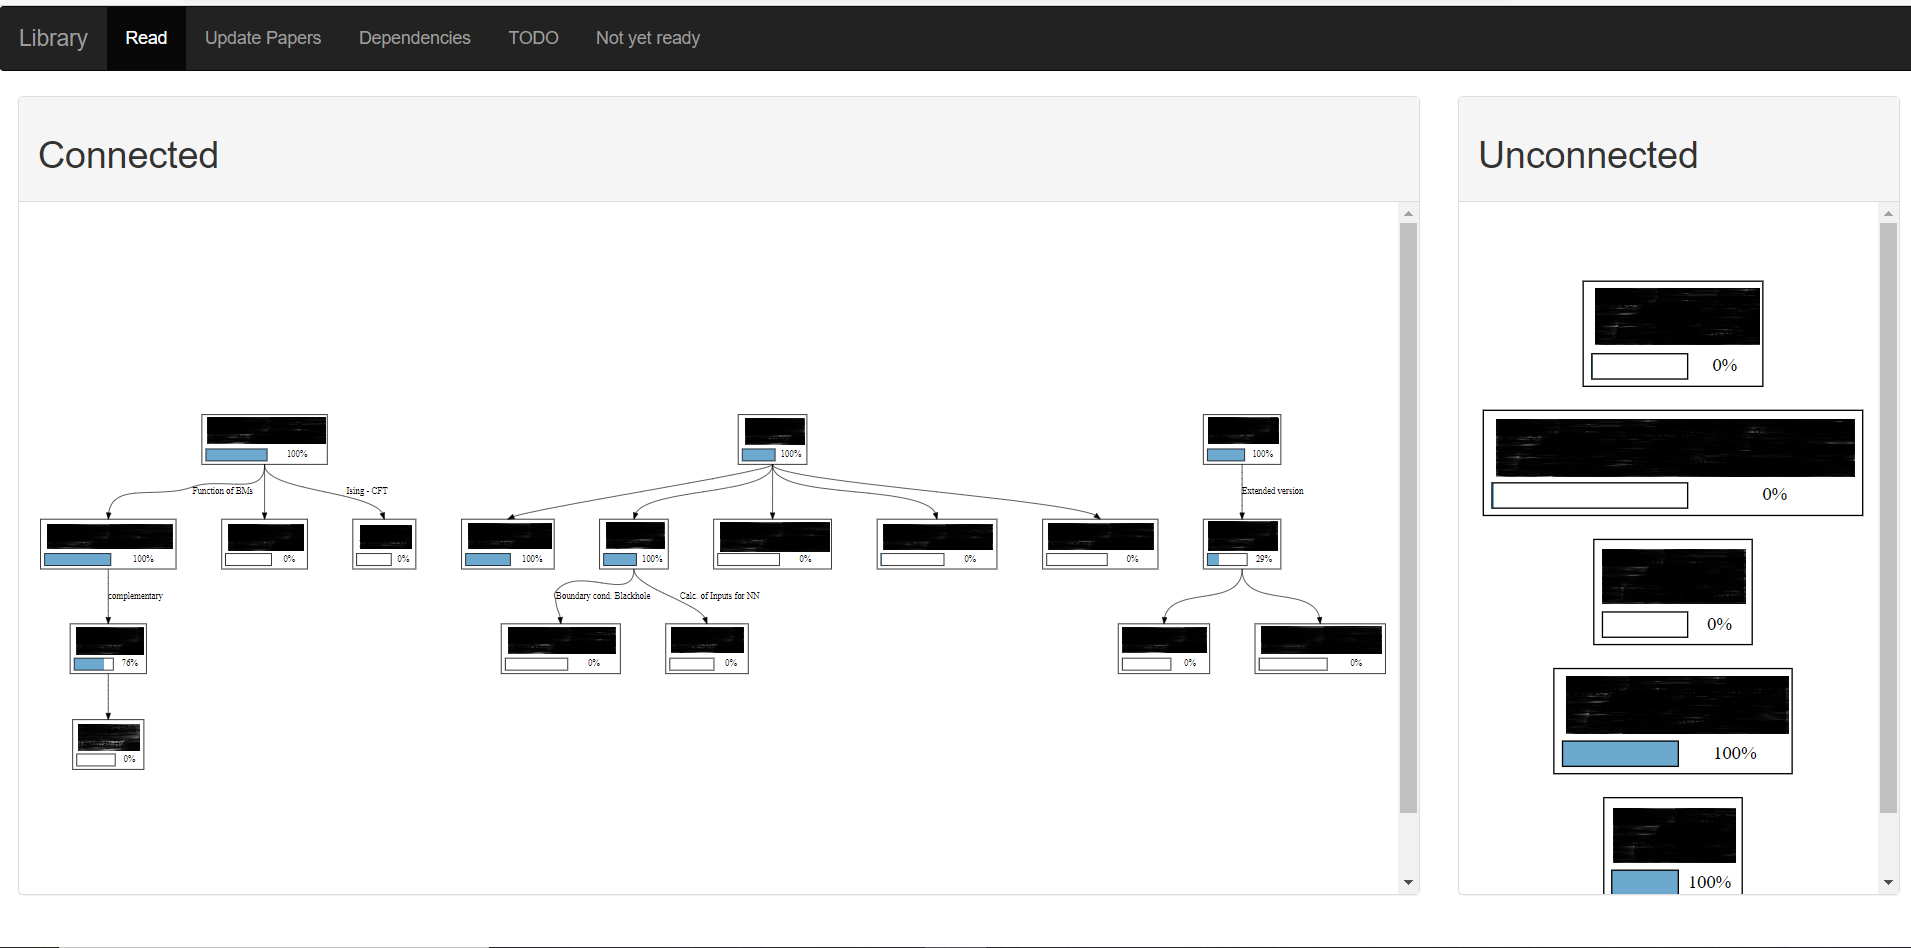
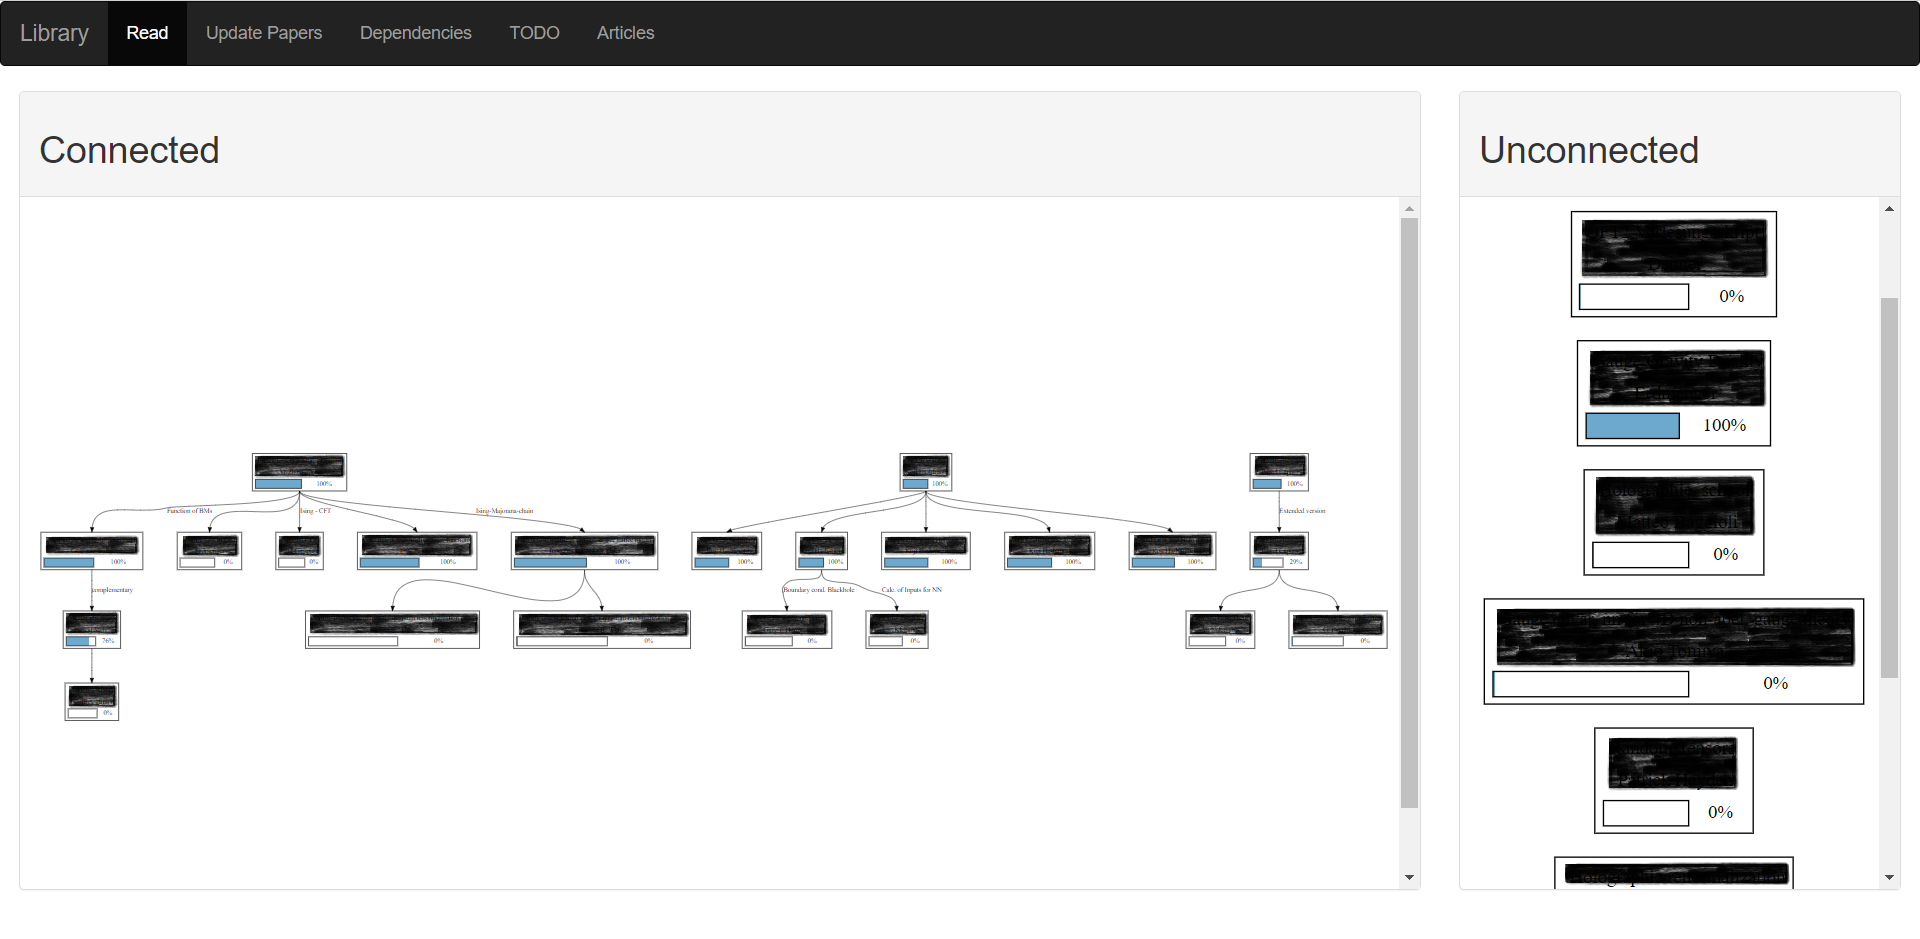
update
- improved README
- minor bugfixes
- added config file and remember viewbox
- updated example image

diff --git a/static/js/home.js b/static/js/home.js
@@ -1,42 +1,42 @@
-// adjust width of svg
-var wrapper = document.getElementById("wrapper");
-var width = wrapper.getBoundingClientRect()["width"] - 40;
-var height = wrapper.getBoundingClientRect()["height"];
-var svg = document.getElementsByTagName("svg")[0];
-svg.setAttribute("width", width);
-svg.setAttribute("height", height);
+// adjust size of svgs
+function resize() {
+    var wrapper = document.getElementById("wrapper");
+    var width = wrapper.getBoundingClientRect()["width"] - 40;
+    var height = wrapper.getBoundingClientRect()["height"];
+    var svg = document.getElementsByTagName("svg")[0];
+    svg.setAttribute("width", width);
+    svg.setAttribute("height", height);
 
-// adjust width of the svg (solo image)
-var wrapper_solo = document.getElementById("solo_wrapper");
-var width = wrapper_solo.getBoundingClientRect()["width"] - 40;
-var height = wrapper_solo.getBoundingClientRect()["height"];
-var svg_2 = document.getElementsByTagName("svg")[1];
-svg_2.setAttribute("width", width);
-svg_2.setAttribute("height", height);
+    var wrapper_solo = document.getElementById("solo_wrapper");
+    var width = wrapper_solo.getBoundingClientRect()["width"] - 40;
+    var svg_2 = document.getElementsByTagName("svg")[1];
+    svg_2.setAttribute("width", width);
+}
 
+// adjust size for loading
+resize()
 
 // zoom with mouse wheel
 const zoomfactor = 0.1;
 
 function zoom(event) {
-  event.preventDefault();
-  var svg = document.getElementsByTagName("svg")[0];
-  if (event["deltaY"] < 0){
-      var modi = 1;
-  }
-  else {
-      var modi = -1;
-  }
+    event.preventDefault();
+    var svg = document.getElementsByTagName("svg")[0];
+    if (event["deltaY"] < 0) {
+        var modi = 1;
+    } else {
+        var modi = -1;
+    }
 
-  var viewbox = svg.getAttribute("viewBox");
-  var sizes = viewbox.split(" ").map(Number);
-  var dw = sizes[2] * modi * zoomfactor;
-  var dh = sizes[3] * modi * zoomfactor;
-  sizes[2] -= dw;
-  sizes[3] -= dh;
+    var viewbox = svg.getAttribute("viewBox");
+    var sizes = viewbox.split(" ").map(Number);
+    var dw = sizes[2] * modi * zoomfactor;
+    var dh = sizes[3] * modi * zoomfactor;
+    sizes[2] -= dw;
+    sizes[3] -= dh;
 
-  sizes = sizes.map(String);
-  svg.setAttribute("viewBox", sizes.join(" "));
+    sizes = sizes.map(String);
+    svg.setAttribute("viewBox", sizes.join(" "));
 }
 
 wrapper.onwheel = zoom;
@@ -49,7 +49,7 @@ var run = false;
 function move(event) {
     event.preventDefault();
     if (run) {
-        var mouse = { x: event.pageX, y: event.pageY };
+        var mouse = {x: event.pageX, y: event.pageY};
         var svg = document.getElementsByTagName("svg")[0];
         var viewbox = svg.getAttribute("viewBox");
         var sizes = viewbox.split(" ").map(Number);
@@ -71,18 +71,39 @@ function move(event) {
 
 function start(event) {
     event.preventDefault();
-    position = { x: event.pageX, y: event.pageY };
+    position = {x: event.pageX, y: event.pageY};
     document.body.style.cursor = 'move';
     run = true;
 }
 
 function end(event) {
     event.preventDefault();
-    position = { x: event.pageX, y: event.pageY };
+    position = {x: event.pageX, y: event.pageY};
     document.body.style.cursor = 'auto'
     run = false;
 }
 
+var svg = document.getElementsByTagName("svg")[0];
 document.onmousemove = move;
 svg.onmousedown = start;
-svg.onmouseup = end;
+document.onmouseup = end;
+
+
+// save current zoom when closing window
+window.onbeforeunload = function () {
+    var svg = document.getElementsByTagName("svg")[0];
+    var viewbox = svg.getAttribute("viewBox");
+
+    var xhr = new XMLHttpRequest();
+    xhr.open("POST", "/zoom", true);
+    xhr.setRequestHeader('Content-Type', 'application/json');
+    xhr.send(JSON.stringify({'viewbox': viewbox}));
+
+};
+
+
+// zoom window at correct position at the start
+function zoom_section(viewbox){
+    var svg = document.getElementsByTagName("svg")[0];
+    svg.setAttribute("viewBox", viewbox);
+}

diff --git a/templates/home.html b/templates/home.html
@@ -33,4 +33,8 @@
 </div>
 
 <script type="text/javascript" src="../static/js/home.js"></script>
+{% if viewbox %}
+    <script>zoom_section({{ viewbox | tojson }})</script>
+{% endif %}
+
 {% endblock %}

diff --git a/templates/home_update.html b/templates/home_update.html
@@ -33,4 +33,7 @@
 </div>
 
 <script type="text/javascript" src="../static/js/home.js"></script>
+{% if viewbox %}
+    <script>zoom_section({{ viewbox | tojson }})</script>
+{% endif %}
 {% endblock %}

diff --git a/static/styles/dependency.css b/static/styles/dependency.css
@@ -58,3 +58,7 @@ ul li.item:hover {
 .button:hover {
   background-color: #bbb;
 }
+
+.tight{
+  margin-top: 0!important;
+}

diff --git a/main.py b/main.py
@@ -1,5 +1,5 @@
 from flask import Flask, render_template, send_from_directory, request, redirect, url_for
-from administration import BASE
+from administration import BASE, CONFIG
 import os
 import sys
 import subprocess
@@ -21,19 +21,26 @@ def open_file(filename):
 @app.route('/')
 def home():
     main_graph, solo_graph = BASE.get_dependency_graph("/articles", "/dependency")
-    return render_template('home.html', main_graph=main_graph, solo_graph=solo_graph)
+    return render_template('home.html', main_graph=main_graph, solo_graph=solo_graph, viewbox=CONFIG["viewbox"])
+
+
+@app.route('/zoom', methods=['POST'])
+def zoom():
+    CONFIG("viewbox", request.json["viewbox"])
+    return "dummy"
 
 
 @app.route('/sync')
 def sync():
     BASE.sync()
+    CONFIG("viewbox", None)
     return redirect(url_for("home"))
 
 
 @app.route('/update')
 def update_page():
     main_graph, solo_graph = BASE.get_dependency_graph("/update", "/dependency")
-    return render_template('home_update.html', main_graph=main_graph, solo_graph=solo_graph)
+    return render_template('home_update.html', main_graph=main_graph, solo_graph=solo_graph, viewbox=CONFIG["viewbox"])
 
 
 @app.route('/update/<article>', methods=['POST', 'GET'])
@@ -111,6 +118,4 @@ def open_article_folder():
 
 if __name__ == "__main__":
     app.run()
-
-# TODO: Reiter für die Bildung von Flussclustern/Seperieren von Strukturen
 

diff --git a/administration.py b/administration.py
@@ -1,11 +1,13 @@
 import os
 import sqlite3
+import pickle
 from path import PATH
 import graphviz
 from PyPDF2 import PdfFileReader
 
 ARTPATH = PATH + "Article/"
 ARTICLEFILE = "article.db"
+CONFIGFILE = ".config"
 STATEMENTS = [
     """
     CREATE TABLE IF NOT EXISTS articles (
@@ -189,5 +191,28 @@ class Connection:
         self.images[(main_url, depend_url)] = [main_img, solo_img]
 
 
+class ConfigHandler:
+
+    def __init__(self):
+        # check if config file already exists
+        if not os.path.isfile(PATH + CONFIGFILE):
+            with open(PATH + CONFIGFILE, "wb") as doc:
+                pickle.dump({}, doc)
+
+    def __getitem__(self, item):
+        with open(PATH + CONFIGFILE, "rb") as doc:
+            data = pickle.load(doc)
+        return data.get(item)
+
+    def __call__(self, key, value):
+        with open(PATH + CONFIGFILE, "rb") as doc:
+            data = pickle.load(doc)
+        with open(PATH + CONFIGFILE, "wb") as doc:
+            data[key] = value
+            pickle.dump(data, doc)
+
+
 BASE = Connection()
 BASE.sync()
+
+CONFIG = ConfigHandler()

diff --git a/README.md b/README.md
@@ -16,32 +16,33 @@ It can be found at: https://graphviz.org/
 ## Notes
 I am developing and improving this tool currently.
 Furthermore, I am actively working with it and therefore 
-I am a little bit pragmatic corresponding to the look of the tool.
+I am a little pragmatic corresponding to the look of the tool.
 Maybe it will be improved in the future.
 
-`os.startfile()` is used within this programm (as far as I know Windows only). 
-It therefore may not be compatible with operation systems besides windows.
+`os.startfile()` is used within this program (as far as I know Windows only). 
+It therefore may not be compatible with operating systems besides windows.
 I have added a few lines of code which should make it possible for linux too but have not tested it.
 
 
 If you have any ideas how to improve or find bugs please tell me.
 
 ## Updates
-- Added new item to navbar which opens the folder for the articles
-- Change file opening (should work for other operating systems then windows now as well (not tested except windows))
-- Simplified setup
+- BUGFIX: Graph of unconnected is no longer zoomed out
+- BUGFIX: Moving the cursor out of graph is no longer a problem when moving the graph
+- Added config file which preserves the current viewbox in the svg for the next loading
+
 
 ## Usage
 ### Setup
 #### Install requirements
-Install graphviz and the required packages:
+Install graphviz (software) and the required packages:
 - flask
-- gravphiz
+- gravphiz (python package)
 - PyPDF2
 
 #### Create folders
 1. Start 'create_folder.py'
-2. Controll if all three checkmarks are set in the REQUIREMENTS-frame (cf. Image bellow)
+2. Control if all three checkmarks are set in the REQUIREMENTS-frame (cf. Image bellow)
 3. Select a path and create the folders
 
 ![Setup image](images/setup.png)
@@ -51,7 +52,7 @@ Install graphviz and the required packages:
 2. Open the website at the link which is presented by python
 
 #### If automatic setup does not work:
-create a "path.py" and insert the following line:
+Create a "path.py" and insert the following line:
 ```PATH = "<your path were to add the working data>"```.
 
 Create an "Article" folder within `PATH`.
@@ -61,26 +62,30 @@ Therefore, you should have such a structure (example):
  |-Library
       |- Article <add papers into this folder>
       <an article.db will be automatically created here>
+      <an .config file will be automatically created here>
 ```
 In this example is `PATH = "...\Library"`
 
 
 ### Working 
 Place papers in the Articles directory at your path.
-The system will check all articles every start or if you press the Library button on the web page
+You can open this folder when pressing the >Articles< button in the navbar. 
+The system will check all articles every start or if you press the >Library< button on the web page.
 
-Zoom whit the mouse wheel into the graph.
-Move the graph by pressing your left mouse button and move it arround.
+Zoom with the mouse wheel in/out at the connected graph.
+Move the connected graph by pressing your left mouse button and move it around.
 
-To read a paper click at it while the Read section in the navbar is chosen.
-Similar for all the other actions (I think I made most relevant things accessible via a click)
+To read a paper click at it while the >Read< section in the navbar is chosen.
+Similar for all the other actions (I think I made most relevant things accessible via a click).
 
-Click on a Connection to configre its proberties.
+Click on a Connection to configure its properties.
+This can either be done in the >Dependencies< section or when clicking at a connection in the connected graph.
+If the connection does not have a comment yet, press at the arrowhead otherwise the comment will do.
 
 
 
-I think the other possibilties explain themselves.
-But maybe I will write something to this... some day (sorry :)).
+I think the other possibilities explain themselves.
+Maybe I will write something to this... some day (sorry :)).
 
 ### Tipps:
 Place a run_library.py file at your Desktop.
@@ -94,11 +99,11 @@ os.startfile(PATH)
 os.startfile("<url to the website>")
 ```
 
-When you double click it, the library is started and your default browser will open the website.
+When you double-click it, the library is started, and your default browser will open the website.
 
 
 ## TODO:
 - Improve paper update form
 - add non weight dependency
 - add summery option to paper
-- make paper green with checkbox to indicate it is finished
+- make paper green with a checkbox to indicate it is finished
